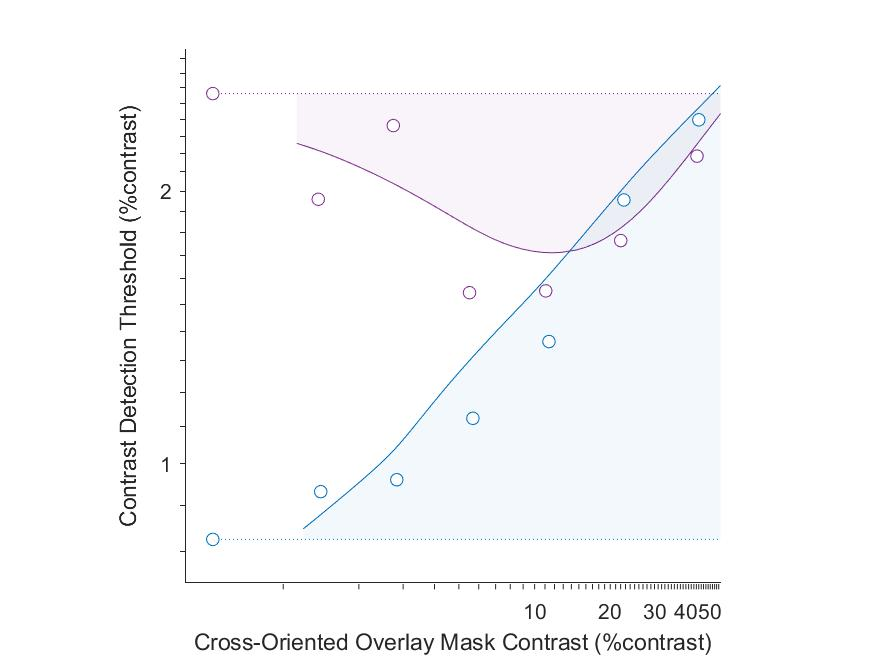
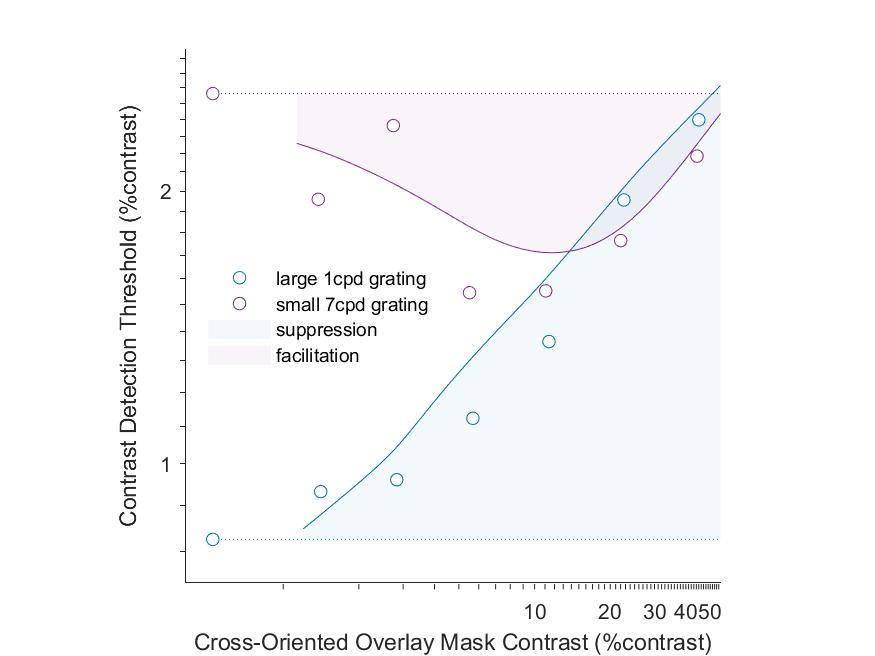
add legend

Changed region(s): [[0.3086, 0.3963, 0.4937, 0.5488]]

diff --git a/doIt_crossOrientation.m b/doIt_crossOrientation.m
@@ -142,6 +142,8 @@ ylabel('Contrast Detection Threshold (%contrast)')
 ax.PlotBoxAspectRatio = [1 1 1];
 uistack([hPlot1_scat hPlot1_base hPlot7_scat hPlot7_base],'top')
 
+legend([hPlot1_scat hPlot7_scat hPatch1 hPatch7],{'large 1cpd grating' 'small 7cpd grating' 'suppression' 'facilitation'},'box','off','location','west')
+
 return
 %% Export figures
 curF = f;
